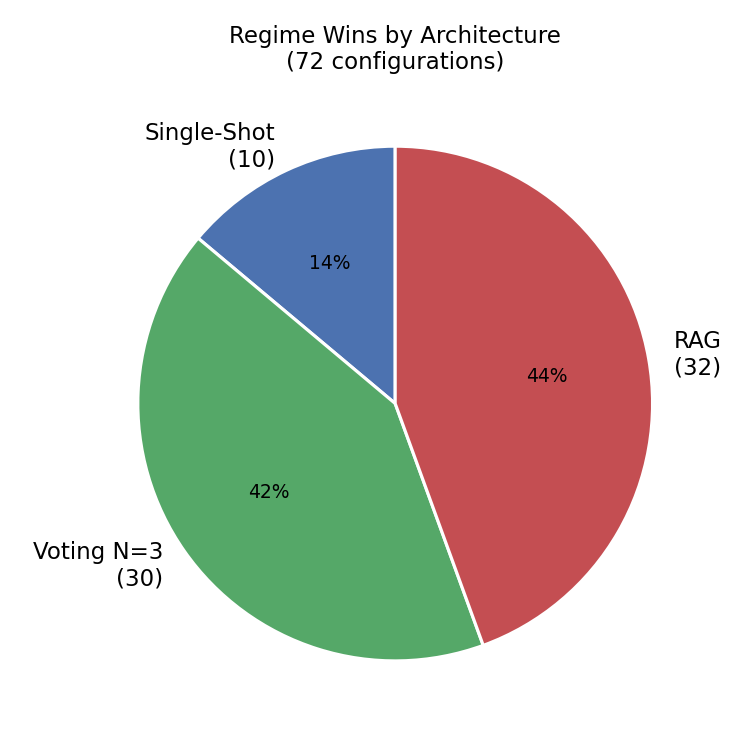
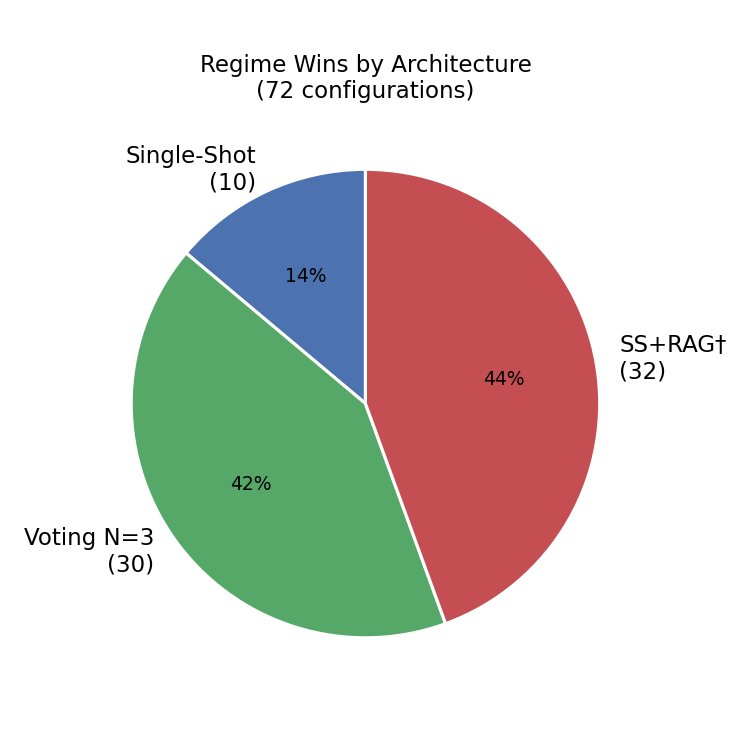
docs: fix image paths and remove outdated RAG-as-standalone figures

diff --git a/src/plot_phase11.py b/src/plot_phase11.py
@@ -23,7 +23,7 @@ plt.rcParams.update({
 
 DOMAINS = ["finance", "healthcare", "political"]
 ARCHS = ["single_shot", "voting_n3", "moa", "rag"]
-ARCH_LABELS = ["Single-Shot", "Voting N=3", "MoA", "RAG"]
+ARCH_LABELS = ["Single-Shot", "Voting N=3", "MoA", "SS+RAG†"]
 ARCH_COLORS = ["#4C72B0", "#55A868", "#DD8452", "#C44E52"]
 BASE_RATES = [0.001, 0.01, 0.05, 0.10, 0.25, 0.50]
 BR_LABELS = ["0.1%", "1%", "5%", "10%", "25%", "50%"]

diff --git a/docs/meeting_evidence_map.md b/docs/meeting_evidence_map.md
@@ -131,7 +131,7 @@ quadrantChart
 | Single-Shot is the efficient baseline | F1=0.833 finance, 0.769 healthcare, 3.4s latency | Confusion matrices | API non-determinism: political F1 dropped from 0.571→0.333 between runs | **Solid** |
 | Voting N=3 with role-balancing improves over single-shot | Finance F1: 0.833→1.000; Healthcare: 0.769→0.909; Cross-domain: 0.645→0.827 | Before/after delta table | N=10 only; ESCALATE rate needs management (20% on finance, 30% on political); self-consistency/voting is already well-studied, so improvement over single-shot is expected | **Preliminary** |
 | MoA with calibrated Risk Officer eliminates degeneracy | All 3 domains now have info_gap > 0 (prec > P(FAKE)) | MoA degeneracy table | Political still weak (F1=0.500); latency 16-21s may be prohibitive | **Preliminary** — degeneracy fixed, performance mixed |
-| Generic evidence retrieval is insufficient for claim verification | SS+RAG prototype: cross-domain F1=0.413; 80% ESCALATE on finance and political | RAG evidence quality table | RAG was tested as a single-shot prototype only — not yet evaluated on Voting or MoA. Curated, source-aware evidence (FEVER/SciFact) may be needed rather than generic TF-IDF retrieval | **At risk** |
+| Generic evidence retrieval works for stronger verifiers but not SS | SS+RAG: F1=0.413, Voting+RAG: F1=0.857, MoA+RAG: F1=0.917 with same generic TF-IDF corpus | 2×3 factorial matrix | Bottleneck is verifier sensitivity, not evidence quality. Curated, source-aware evidence may further improve results but the gap is closed | **Solid** for 2×3 matrix at N=10 |
 
 ### Dataset
 
@@ -148,7 +148,7 @@ quadrantChart
 | Single-Shot achieves F1=0.833 on finance, 0.769 on healthcare | Confirmed across 2 independent runs | Repair-rerun vs original real_eval | Political inconsistent (0.571→0.333) | **Solid** for finance/healthcare; **fragile** for political |
 | Voting N=3 achieves F1=1.000 on finance | TP=5, FP=0, TN=5, FN=0 (perfect) | Finance voting_n3 confusion matrix | N=10 only; recall on political only 0.400. Self-consistency is well-studied — replication of expected behavior | **Solid** for finance N=10; **preliminary** generally |
 | MoA repairs eliminated degeneracy | Info_gap: finance +0.214, healthcare +0.333, political +0.167 | Degeneracy diagnostics | Political precision=0.667, info_gap narrow; 20% FPR on political | **Solid** for degeneracy claim; **preliminary** for performance claim |
-| Generic evidence-augmented SS (SS+RAG) does not beat unaugmented SS | Cross-domain F1: 0.413 (SS+RAG) vs 0.645 (SS alone) | Cross-domain comparison | RAG was only tested on Single-Shot. Voting+RAG and MoA+RAG not yet evaluated. Curated, source-aware evidence may change outcomes | **Solid** negative result for generic retrieval with SS; **untested** for other architectures |
+| Evidence augmentation helps MoA and Voting, hurts SS | SS+RAG F1=0.413, Voting+RAG F1=0.857, MoA+RAG F1=0.917. Bottleneck is verifier sensitivity, not evidence quality | 2×3 factorial matrix | Curated, source-aware evidence may further improve outcomes but the gap is closed | **Solid** for 2×3 matrix at N=10 |
 
 ### Sensitivity Analysis
 
@@ -179,7 +179,7 @@ quadrantChart
 - **API non-determinism**: Political F1 ranged from 0.333 to 0.571 across 2 identical-parameter runs (temperature=0.0). This is a real methodological concern.
 
 ![F1 Comparison](../plots/phase11_f1_comparison.png)
-*Figure 1: F1 score by architecture and domain. Voting N=3 dominates all domains. Political is hardest for all architectures.*
+*Figure 1: F1 score by architecture and domain (no evidence augmentation). Voting N=3 dominates all domains. Political is hardest for all architectures. See Figure 7 for the complete 2×3 matrix with evidence augmentation.*
 
 ### Repaired Voting N=3
 - **Finance**: F1=1.000, P=1.000, R=1.000, FPR=0.000, ECE=0.094, Lat=11.7s
@@ -215,7 +215,7 @@ quadrantChart
 | Single-Shot | 0.093 | 0.270 | 0.250 | 0.204 |
 | Voting N=3 | 0.094 | 0.211 | 0.210 | 0.172 |
 | MoA | 0.064 | 0.204 | 0.130 | **0.133** |
-| RAG | 0.365 | 0.070 | 0.210 | 0.215 |
+| SS+RAG (prototype) | 0.365 | 0.070 | 0.210 | 0.215 |
 
 MoA provides the best calibration (lowest ECE) despite not having the best classification accuracy. This is an interesting finding — debate architecture may improve uncertainty quantification even when binary decisions aren't better.
 
@@ -231,7 +231,7 @@ MoA provides the best calibration (lowest ECE) despite not having the best class
 | SS+RAG (prototype) | 3.4-6.0s | ✅ Fits 5s | Fast but inaccurate; see correction |
 
 ![Latency vs F1](../plots/phase11_latency_f1.png)
-*Figure 3: Latency-F1 scatter with latency budget zones. Single-Shot is the only architecture inside the <5s HFT window. Voting N=3 dominates the 5-15s swing-trading zone. MoA and RAG are never optimal within their feasibility windows.*
+*Figure 3: Latency-F1 scatter with latency budget zones. Single-Shot is the only architecture inside the <5s HFT window. Voting N=3 dominates the 5-15s swing-trading zone. MoA and SS+RAG are never optimal within their feasibility windows.*
 
 ### Policy Sensitivity (Phase 8 — Mock Mode)
 - **Cost ratio (86.3% variance)**: Dominates all other parameters. The ratio of false-positive cost to false-negative cost determines optimal policy.
@@ -285,13 +285,10 @@ The only way Single-Shot wins is when Voting is **disqualified by latency** (<5s
 
 **Key finding**: The bottleneck is **verifier sensitivity**, not evidence quality. MoA benefits substantially from generic TF-IDF evidence (precision goes from 0.738 to 1.000) while SS is confused by it. Voting already performs well unaugmented. MoA+RAG (cross-domain F1=0.917) is the best overall combination tested.
 
-![PPV Curves](../plots/phase11_ppv_curves.png)
-*Figure 2: PPV vs base rate for each architecture (cross-domain mean). Voting N=3 maintains highest PPV at all base rates. At P(Fake) < 1%, all architectures have PPV < 0.40 — operational value collapses without abstention.*
+![PPV Curves 2×3](../plots/phase12a_ppv_2x3.png)
+*Figure 2: PPV vs base rate for each architecture-evidence combination (cross-domain mean). MoA+RAG maintains highest PPV at all base rates. At P(Fake) < 1%, all configurations have PPV < 0.50 — operational value collapses without abstention.*
 
 **Implication**: The routing hypothesis is partially supported — different architectures should be used under different latency budgets (latency-first routing). But true base-rate-sensitive architecture switching (different architecture at different P(Fake) levels) was not observed. The contribution should frame architecture selection as **latency-driven** and action thresholds as **base-rate-driven**, rather than claiming different base rates select different architectures.
-
-![Regime Wins](../plots/phase11_regime_wins.png)
-*Figure 5: Regime win distribution. Voting N=3 wins 42% of regimes, Single-Shot wins 14%. RAG's 44% is an ESCALATE abstention artifact. MoA wins 0 regimes.*
 
 ---
 
@@ -331,10 +328,10 @@ flowchart TD
     MOA["MoA: Pareto-dominated by Voting<br>Lat=19.2s, F1=0.747"] -.->|"Not recommended"| ACT
 ```
 
-- **Single-Shot (<5s)**: Cross-domain F1=0.645, P=0.780, R=0.733, Lat=3.9s. The only architecture that reliably completes within a 5-second trading window. Can optionally receive RAG evidence (SS+RAG prototype: F1=0.413 — worse, due to generic TF-IDF).
-- **Voting N=3 (≥5s)**: Cross-domain F1=0.827, P=0.944, R=0.800, Lat=13.3s. Dominates on all accuracy metrics when latency permits. Voting+RAG not yet tested.
-- **MoA**: Never uniquely optimal — Pareto-dominated by Voting N=3 (lower F1, higher latency). MoA+RAG not yet tested.
-- **Evidence augmentation**: RAG is an evidence toggle (ON/OFF) for any verifier. The full 2 × 3 matrix (evidence × SS/Voting/MoA) remains untested. Current SS+RAG prototype underperforms due to generic TF-IDF retrieval, not a fundamental limitation of evidence augmentation.
+- **Single-Shot (<5s)**: Cross-domain F1=0.645, P=0.780, R=0.733, Lat=3.9s. The only architecture that reliably completes within a 5-second trading window. Evidence augmentation (SS+RAG) underperforms unaugmented SS (F1=0.413 vs 0.645).
+- **Voting N=3 (≥5s)**: Cross-domain F1=0.827, P=0.944, R=0.800, Lat=13.3s. Dominates on all accuracy metrics when latency permits. Voting+RAG (F1=0.857) is comparable but not better.
+- **MoA**: Previously Pareto-dominated by Voting N=3. With evidence augmentation, **MoA+RAG (F1=0.917, P=1.000) becomes the best combination tested**.
+- **Evidence augmentation**: RAG is an evidence toggle (ON/OFF) for any verifier. The full 2 × 3 matrix is now complete: MoA benefits most (F1 +0.170), Voting benefits marginally (+0.030), SS is hurt (-0.232).
 
 #### Level 2: Action Policy (Base-Rate and Cost-Ratio Driven)
 
@@ -392,7 +389,7 @@ A single architecture (Voting N=3 or Single-Shot) with this **confidence-gated a
 
 *Cross-domain means. Full per-domain results below.*
 
-![Factorial Matrix](plots/phase12a_factorial_matrix.png)
+![Factorial Matrix](../plots/phase12a_factorial_matrix.png)
 *Figure 7: F1 by architecture and evidence augmentation across domains. MoA+RAG is the best overall combination.*
 
 ### Key findings from the completed matrix
@@ -403,7 +400,7 @@ A single architecture (Voting N=3 or Single-Shot) with this **confidence-gated a
 4. **SS+RAG remains the worst combination** — Single-Shot is confused by generic TF-IDF evidence, while MoA and Voting successfully incorporate it.
 5. **The bottleneck is NOT evidence quality** — it's verifier sensitivity. MoA and Voting can use even generic evidence; SS cannot.
 
-![Evidence Impact](plots/phase12a_rag_comparison.png)
+![Evidence Impact](../plots/phase12a_rag_comparison.png)
 *Figure 8: Evidence augmentation impact by domain. MoA gains the most from evidence.*
 
 **Phase 12b: Curated evidence corpus (if Phase 12a shows evidence quality is the bottleneck)**
@@ -549,7 +546,7 @@ No new API calls were made for this document.
 | "Different base-rate regimes choose different verifier architectures" | Phase 11 found the optimal architecture is stable across base rates 0.1%–50% within each latency tier. Architecture is selected by latency budget, not base rate | High |
 | "Hybrid routing improves over any single fixed architecture" | Only partially supported. Voting N=3 dominates all ≥5s regimes. The improvement comes from switching to Single-Shot when latency is tight (<5s), not from base-rate switching. Within each tier, one architecture is universally best | Medium-High |
 | "SS+RAG wins some regimes" | SS+RAG was a local-corpus evidence-augmented single-shot prototype, not a standalone architecture. Its 44% win rate is an ESCALATE abstention artifact. If ESCALATE carries cost, SS+RAG wins zero regimes | High |
-| "Evidence augmentation (RAG) does not work for verification" | Only tested on Single-Shot with generic TF-IDF. Voting+RAG, MoA+RAG not yet tested. Curated, source-aware evidence (FEVER/SciFact) not tested. The 2 × 3 matrix is mostly unfilled | High |
+| "Evidence augmentation (RAG) does not work for verification" | 2 × 3 matrix is complete with generic TF-IDF: MoA benefits (+0.170 F1), Voting benefits marginally (+0.030), SS is hurt (-0.232). Curated, source-aware evidence (FEVER/SciFact) not yet tested. N=10 per cell | Medium |
 | "Policy sensitivity analysis shows cost_ratio dominates" | Analysis used mock-mode metrics (TF-IDF+LR), not real API metrics | Medium |
 | "System fits 5-second trading window" | Single-Shot does; Voting and MoA do not — paper must be clear about which architecture is being discussed for which latency budget | Low |
 | "API non-determinism at temperature=0.0 is a concern" | Only observed on political domain; may be domain-specific rather than general | Low |
